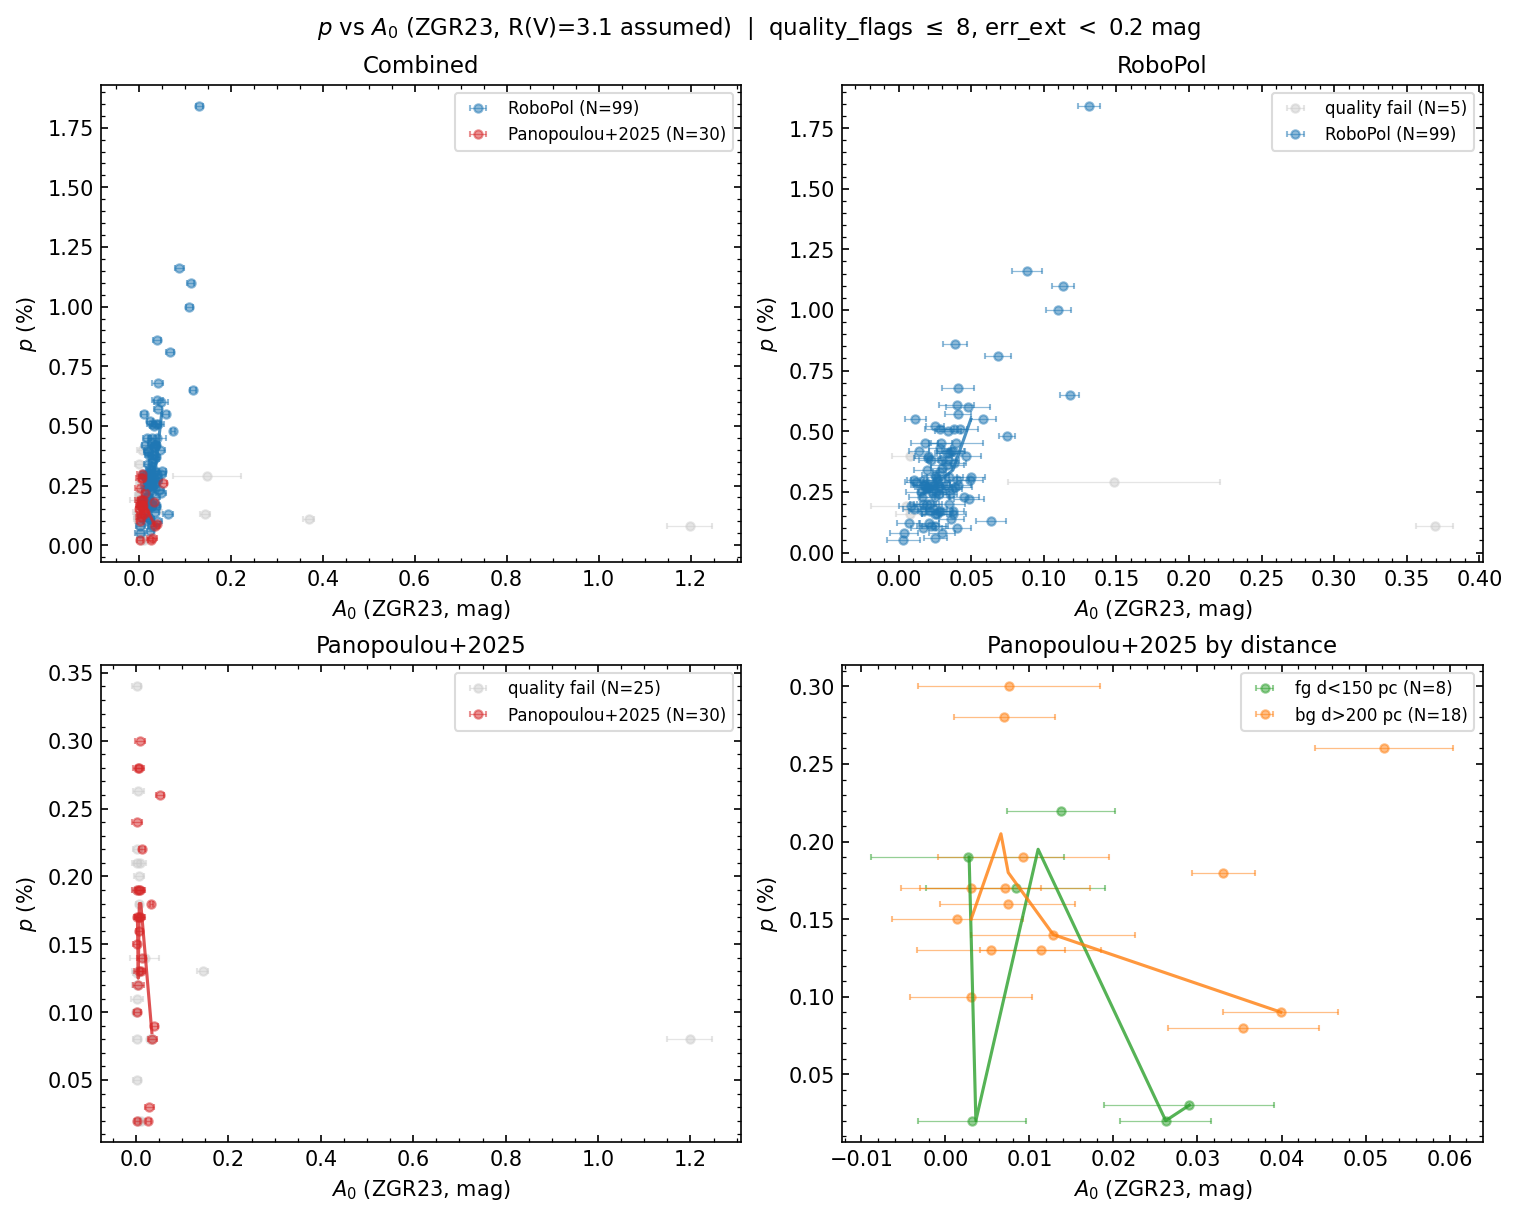
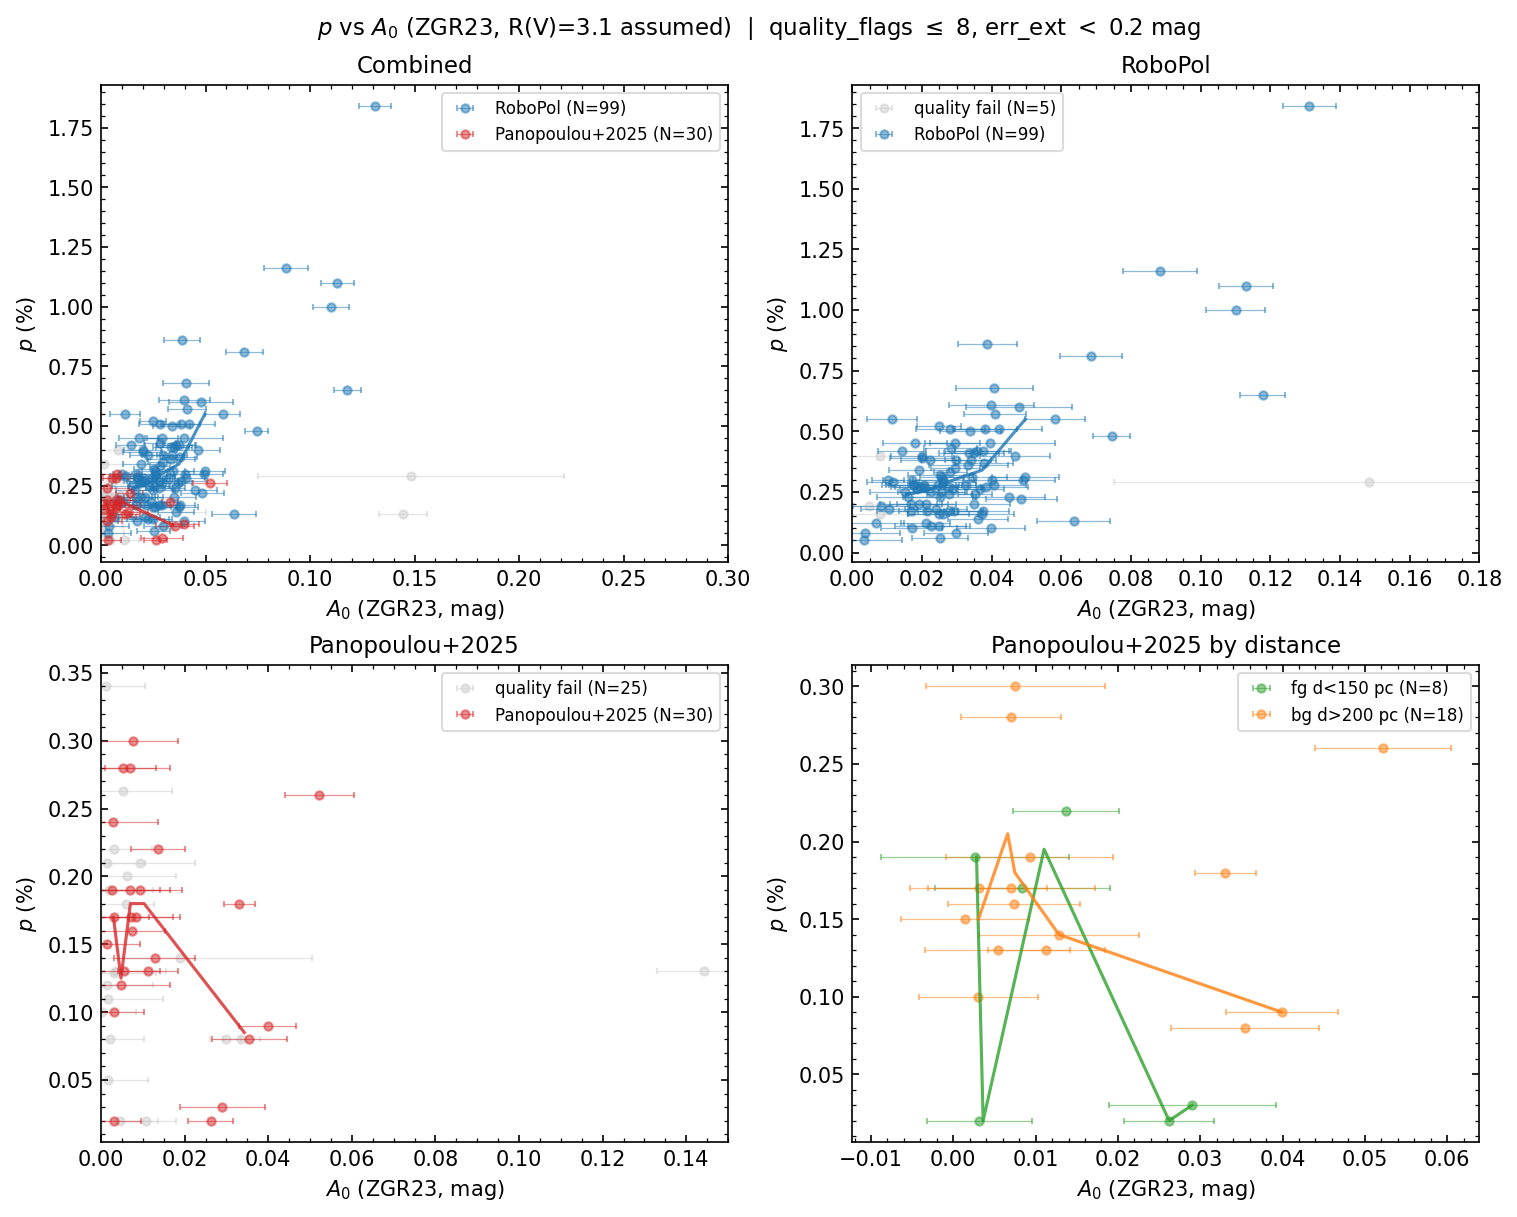
adjust axis and add linear fit to the first panel

diff --git a/6_reddening_maps/pd_vs_reddening_zhang_green_linear_fit.py b/6_reddening_maps/pd_vs_reddening_zhang_green_linear_fit.py
@@ -1,0 +1,222 @@
+"""
+pd_vs_reddening_zg.py
+
+PD vs A0 (ZGR23 per-star extinction) for the Markkanen cloud analysis.
+Mirrors the 4-panel layout of pd_vs_reddening.py but uses Zhang & Green (2023)
+per-star A0 instead of GNILC E(B-V), avoiding the line-of-sight integration
+bias. ZGR23 assumes R(V) = 3.1 throughout; no per-star R(V) is available from
+this catalog.
+
+Run from repo root:
+    python coursework/6_reddening_maps/pd_vs_reddening_zg.py
+
+TOPCAT query results (xpparams.main, one row per matched star) must be
+produced separately via prepare_zgr23_ids.py + TOPCAT TAP query and placed
+at the paths below.
+"""
+
+import os
+import numpy as np
+import pandas as pd
+import matplotlib.pyplot as plt
+import matplotlib.ticker as ticker
+
+# toggles 
+QUALITY_FLAG_MAX   = 8        # 0 = cleanest only; 8 = ZGR23 recommended relaxed cut
+ERR_EXT_MAX        = 0.2      # mag; drop stars with large A0 uncertainty
+DIST_FOREGROUND_PC = 150      # Panopoulou foreground cut (d < this)
+DIST_BACKGROUND_PC = 200      # Panopoulou background cut (d > this)
+FILTER_ID          = 0        # Panopoulou FilterID to keep (0 = main sample)
+SHOW_QUALITY_FAILS = True     # plot stars that fail ZGR23 quality cut as grey
+
+# paths 
+MERGED_OUTPUT      = "../2_sky_plot/merged_output.csv"
+MERGED_WITH_GAIAID = "../4_gaia/match_with_gaia/merged_with_gaiaid.csv"
+PANOPOULOU         = "../0_data/R/external_panopoulou_expanded_polygon.csv"
+ZGR23_ROBOPOL      = "./zhang_green_map/xpparams_robopol_match.csv"
+ZGR23_PANOPOULOU   = "./zhang_green_map/xpparams_panop_match.csv"
+OUTPUT_DIR         = "./zhang_green_map"
+
+# output filename suffix from active toggles
+suffix_parts = [f"qflag{QUALITY_FLAG_MAX}", f"eerr{ERR_EXT_MAX}"]
+if FILTER_ID is not None:
+    suffix_parts.append(f"fid{FILTER_ID}")
+SUFFIX = "_".join(suffix_parts)
+
+#load data 
+robopol_pol  = pd.read_csv(MERGED_OUTPUT)
+gaia_ids     = pd.read_csv(MERGED_WITH_GAIAID)[["Name", "gaia_id"]].dropna(subset=["gaia_id"])
+gaia_ids["gaia_id"] = gaia_ids["gaia_id"].astype("int64")
+robopol_pol  = robopol_pol.merge(gaia_ids, on="Name", how="inner")
+robopol_pol  = robopol_pol.rename(columns={"gaia_id": "source_id"})
+robopol_pol["source_id"] = robopol_pol["source_id"].astype("int64")
+
+pano_pol     = pd.read_csv(PANOPOULOU)
+pano_pol     = pano_pol.rename(columns={"GID": "source_id"})
+pano_pol["source_id"] = pano_pol["source_id"].astype("int64")
+
+zgr_rob      = pd.read_csv(ZGR23_ROBOPOL)
+zgr_rob["source_id"] = zgr_rob["source_id"].astype("int64")
+
+zgr_pan      = pd.read_csv(ZGR23_PANOPOULOU)
+zgr_pan["source_id"] = zgr_pan["source_id"].astype("int64")
+
+# ── merge polarimetry with ZGR23 ───────────────────────────────────────────────
+rob = robopol_pol.merge(zgr_rob, on="source_id", how="inner")
+pan = pano_pol.merge(zgr_pan, on="source_id", how="inner")
+# Panopoulou uses "p" for polarization degree; normalise to match RoboPol
+if "p" in pan.columns and "P[%]" not in pan.columns:
+    pan = pan.rename(columns={"p": "P[%]", "e_p": "sP[%]"})
+    pan["P[%]"] = pan["P[%]"] * 100 # convert fraction to percent
+    pan["sP[%]"] = pan["sP[%]"] * 100
+
+print(f"RoboPol:     {len(robopol_pol)} stars with Gaia ID, "
+      f"{len(rob)} matched in ZGR23")
+print(f"Panopoulou:  {len(pano_pol)} stars in polygon, "
+      f"{len(pan)} matched in ZGR23")
+
+#apply FilterID cut to Panopoulou 
+if FILTER_ID is not None:
+    pan = pan[pan["FilterID"] == FILTER_ID]
+    print(f"Panopoulou after FilterID={FILTER_ID}: {len(pan)} stars")
+
+#  quality cuts 
+def apply_quality(df, label):
+    fail_flag = df["quality_flags"] > QUALITY_FLAG_MAX
+    fail_err  = df["err_ext"] > ERR_EXT_MAX
+    fail      = fail_flag | fail_err
+    n_fail    = fail.sum()
+    print(f"{label}: {n_fail} stars fail quality cut "
+          f"(qflag>{QUALITY_FLAG_MAX} or err_ext>{ERR_EXT_MAX}), "
+          f"{(~fail).sum()} pass")
+    return df[~fail].copy(), df[fail].copy()
+
+rob_good, rob_bad = apply_quality(rob, "RoboPol")
+pan_good, pan_bad = apply_quality(pan, "Panopoulou")
+
+# distance split for Panopoulou 
+pan_fg = pan_good[pan_good["r_med_geo"] < DIST_FOREGROUND_PC].copy()
+pan_bg = pan_good[pan_good["r_med_geo"] > DIST_BACKGROUND_PC].copy()
+pan_mid = pan_good[
+    (pan_good["r_med_geo"] >= DIST_FOREGROUND_PC) &
+    (pan_good["r_med_geo"] <= DIST_BACKGROUND_PC)
+].copy()
+
+print(f"Panopoulou distance split: "
+      f"fg (d<{DIST_FOREGROUND_PC}pc) N={len(pan_fg)}, "
+      f"bg (d>{DIST_BACKGROUND_PC}pc) N={len(pan_bg)}, "
+      f"mid N={len(pan_mid)} (excluded from split panel)")
+
+#plotting helpers
+ROB_COLOR = "#1f77b4"
+PAN_COLOR = "#d62728"
+FG_COLOR  = "#2ca02c"
+BG_COLOR  = "#ff7f0e"
+FAIL_COLOR = "#cccccc"
+
+ALPHA_PT  = 0.5
+PT_SIZE   = 18
+
+def scatter_with_errorbars(ax, df, color, label, zorder=2):
+    ax.errorbar(
+        df["ext"], df["P[%]"],
+        xerr=df["err_ext"],
+        fmt="o", ms=4, color=color, ecolor=color,
+        elinewidth=0.6, capsize=1.5, alpha=ALPHA_PT,
+        label=label, zorder=zorder
+    )
+
+def add_median_line(ax, df, color, x_col="ext", y_col="P[%]", n_bins=5):
+    """Bin by x, plot median y per bin."""
+    if len(df) < 5:
+        return
+    df = df.copy().sort_values(x_col)
+    bins = np.array_split(df, n_bins)
+    xs = [b[x_col].median() for b in bins if len(b) > 0]
+    ys = [b[y_col].median() for b in bins if len(b) > 0]
+    ax.plot(xs, ys, "-", color=color, lw=1.5, alpha=0.8, zorder=3)
+
+def add_linear_fit(ax, df, x_col="ext", y_col="P[%]", color="black"):
+    """Plot an unweighted linear fit y = m x + b."""
+    df = df[[x_col, y_col]].dropna()
+    if len(df) < 2:
+        return
+    m, b = np.polyfit(df[x_col], df[y_col], 1)
+    xfit = np.linspace(df[x_col].min(), df[x_col].max(), 100)
+    yfit = m * xfit + b
+    ax.plot(xfit, yfit, "--", color=color, lw=1.5,
+            label=fr"linear fit: $p={m:.1f}A_0{b:+.2f}$", zorder=4)
+
+def format_ax(ax):
+    ax.set_xlabel(r"$A_0$ (ZGR23, mag)", fontsize=10)
+    ax.set_ylabel(r"$p$ (%)", fontsize=10)
+    ax.xaxis.set_minor_locator(ticker.AutoMinorLocator())
+    ax.yaxis.set_minor_locator(ticker.AutoMinorLocator())
+    ax.tick_params(which="both", direction="in", top=True, right=True)
+
+#figure: 4 panels
+fig, axes = plt.subplots(2, 2, figsize=(10, 8), constrained_layout=True)
+ax_all, ax_rob, ax_pan, ax_dist = axes.flat
+
+# panel 1: combined
+if SHOW_QUALITY_FAILS:
+    scatter_with_errorbars(ax_all, rob_bad, FAIL_COLOR, "_nolegend_", zorder=1)
+    scatter_with_errorbars(ax_all, pan_bad, FAIL_COLOR, "_nolegend_", zorder=1)
+scatter_with_errorbars(ax_all, rob_good, ROB_COLOR,
+                       f"RoboPol (N={len(rob_good)})")
+scatter_with_errorbars(ax_all, pan_good, PAN_COLOR,
+                       f"Panopoulou+2025 (N={len(pan_good)})")
+add_median_line(ax_all, rob_good, ROB_COLOR)
+add_median_line(ax_all, pan_good, PAN_COLOR)
+combined_good = pd.concat([rob_good, pan_good], ignore_index=True)
+add_linear_fit(ax_all, combined_good)
+ax_all.set_title("Combined", fontsize=11)
+ax_all.legend(fontsize=8, framealpha=0.7)
+format_ax(ax_all)
+ax_all.set_xlim(0.0, 0.3)
+
+# panel 2: RoboPol only
+if SHOW_QUALITY_FAILS:
+    scatter_with_errorbars(ax_rob, rob_bad, FAIL_COLOR,
+                           f"quality fail (N={len(rob_bad)})", zorder=1)
+scatter_with_errorbars(ax_rob, rob_good, ROB_COLOR,
+                       f"RoboPol (N={len(rob_good)})")
+add_median_line(ax_rob, rob_good, ROB_COLOR)
+ax_rob.set_title("RoboPol", fontsize=11)
+ax_rob.legend(fontsize=8, framealpha=0.7)
+format_ax(ax_rob)
+ax_rob.set_xlim(0.0, 0.18)
+
+# panel 3: Panopoulou only
+if SHOW_QUALITY_FAILS:
+    scatter_with_errorbars(ax_pan, pan_bad, FAIL_COLOR,
+                           f"quality fail (N={len(pan_bad)})", zorder=1)
+scatter_with_errorbars(ax_pan, pan_good, PAN_COLOR,
+                       f"Panopoulou+2025 (N={len(pan_good)})")
+add_median_line(ax_pan, pan_good, PAN_COLOR)
+ax_pan.set_title("Panopoulou+2025", fontsize=11)
+ax_pan.legend(fontsize=8, framealpha=0.7)
+format_ax(ax_pan)
+ax_pan.set_xlim(0.0, 0.15)
+
+# panel 4: Panopoulou split by distance
+scatter_with_errorbars(ax_dist, pan_fg, FG_COLOR,
+                       f"fg d<{DIST_FOREGROUND_PC} pc (N={len(pan_fg)})")
+scatter_with_errorbars(ax_dist, pan_bg, BG_COLOR,
+                       f"bg d>{DIST_BACKGROUND_PC} pc (N={len(pan_bg)})")
+add_median_line(ax_dist, pan_fg, FG_COLOR)
+add_median_line(ax_dist, pan_bg, BG_COLOR)
+ax_dist.set_title("Panopoulou+2025 by distance", fontsize=11)
+ax_dist.legend(fontsize=8, framealpha=0.7)
+format_ax(ax_dist)
+
+fig.suptitle(
+    f"$p$ vs $A_0$ (ZGR23, R(V)=3.1 assumed)  |  "
+    f"quality_flags $\\leq$ {QUALITY_FLAG_MAX}, err_ext $<$ {ERR_EXT_MAX} mag",
+    fontsize=11
+)
+
+outpath = os.path.join(OUTPUT_DIR, f"pd_vs_reddening_zgr23_{SUFFIX}.png")
+fig.savefig(outpath, dpi=150, bbox_inches="tight")
+print(f"\nSaved: {outpath}")
+plt.show()
